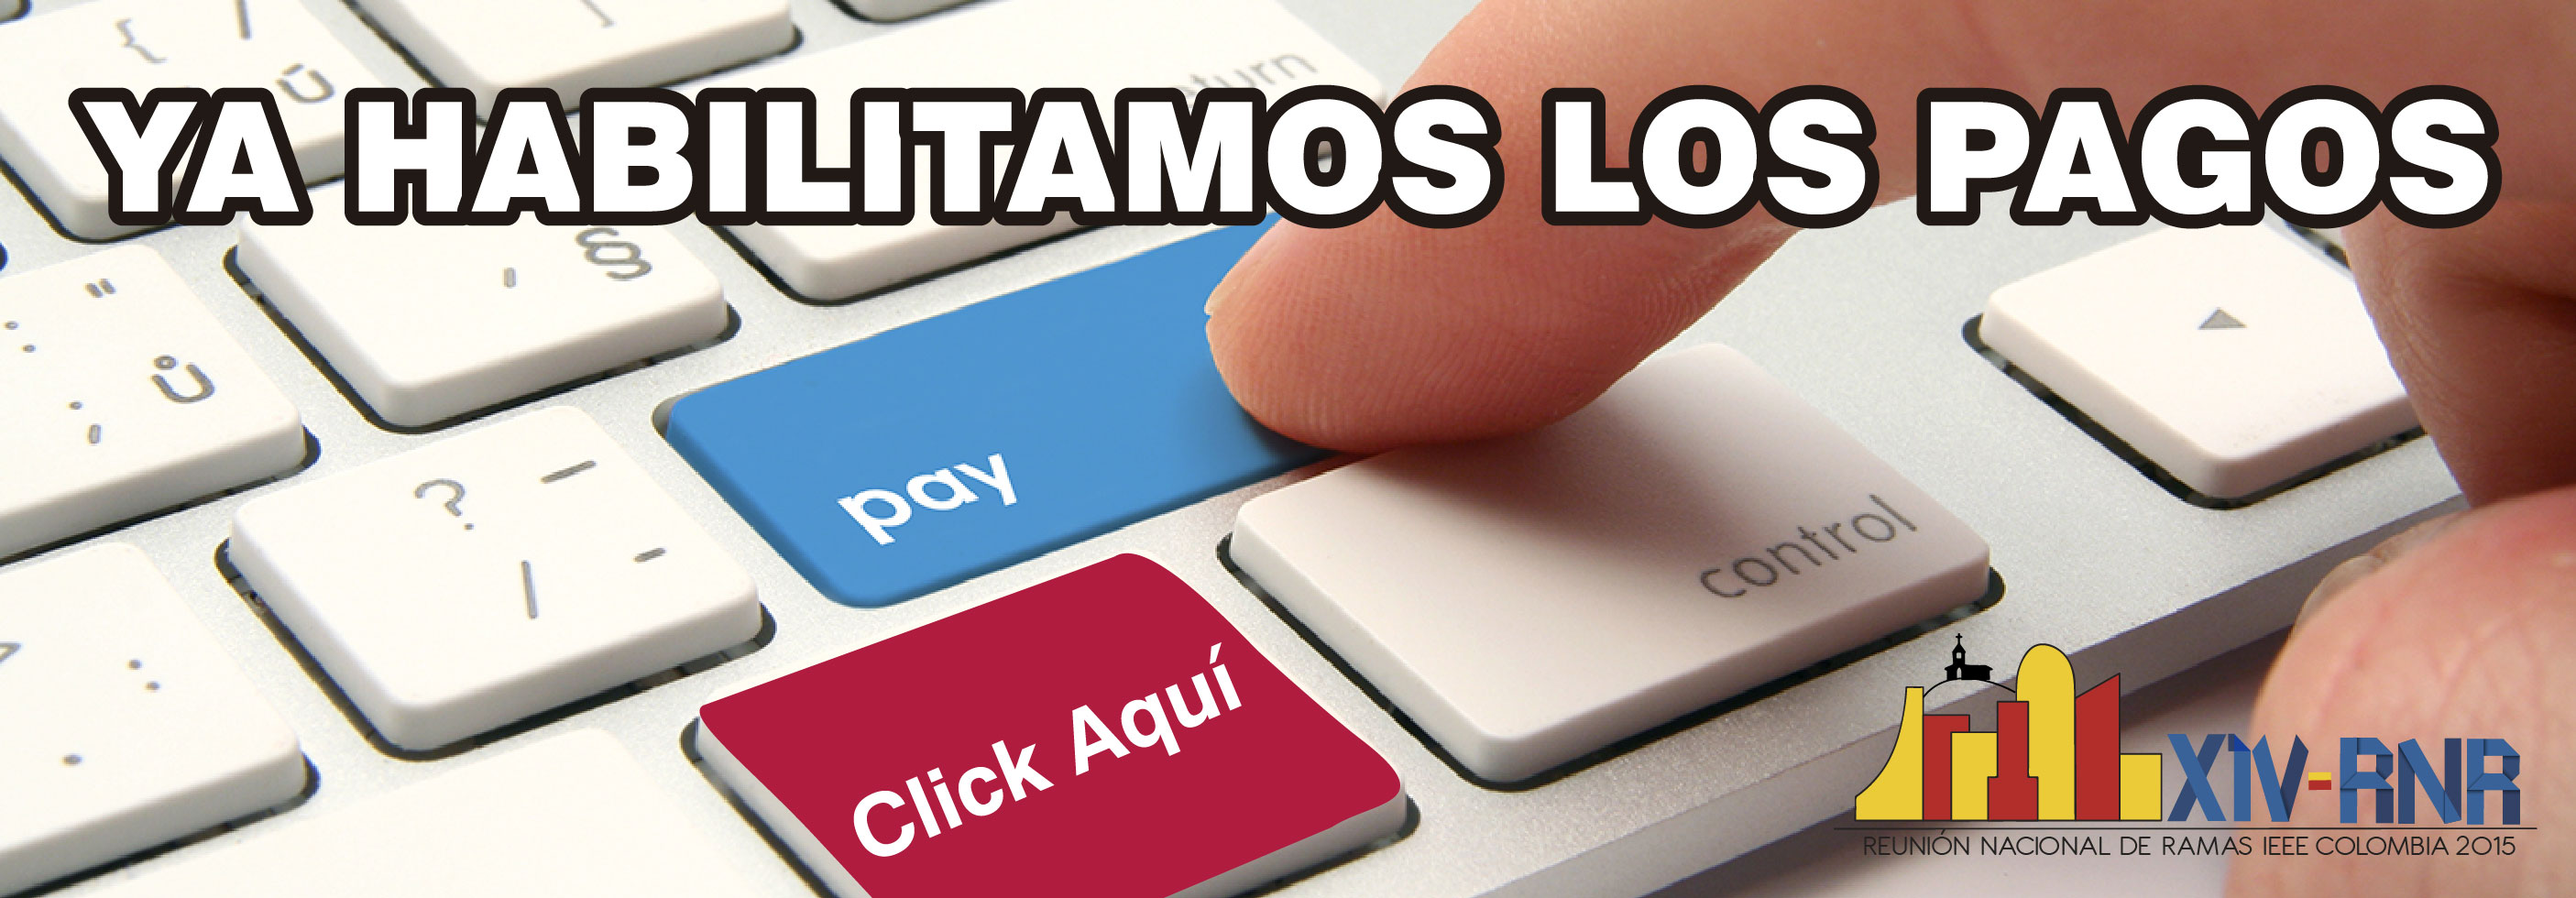
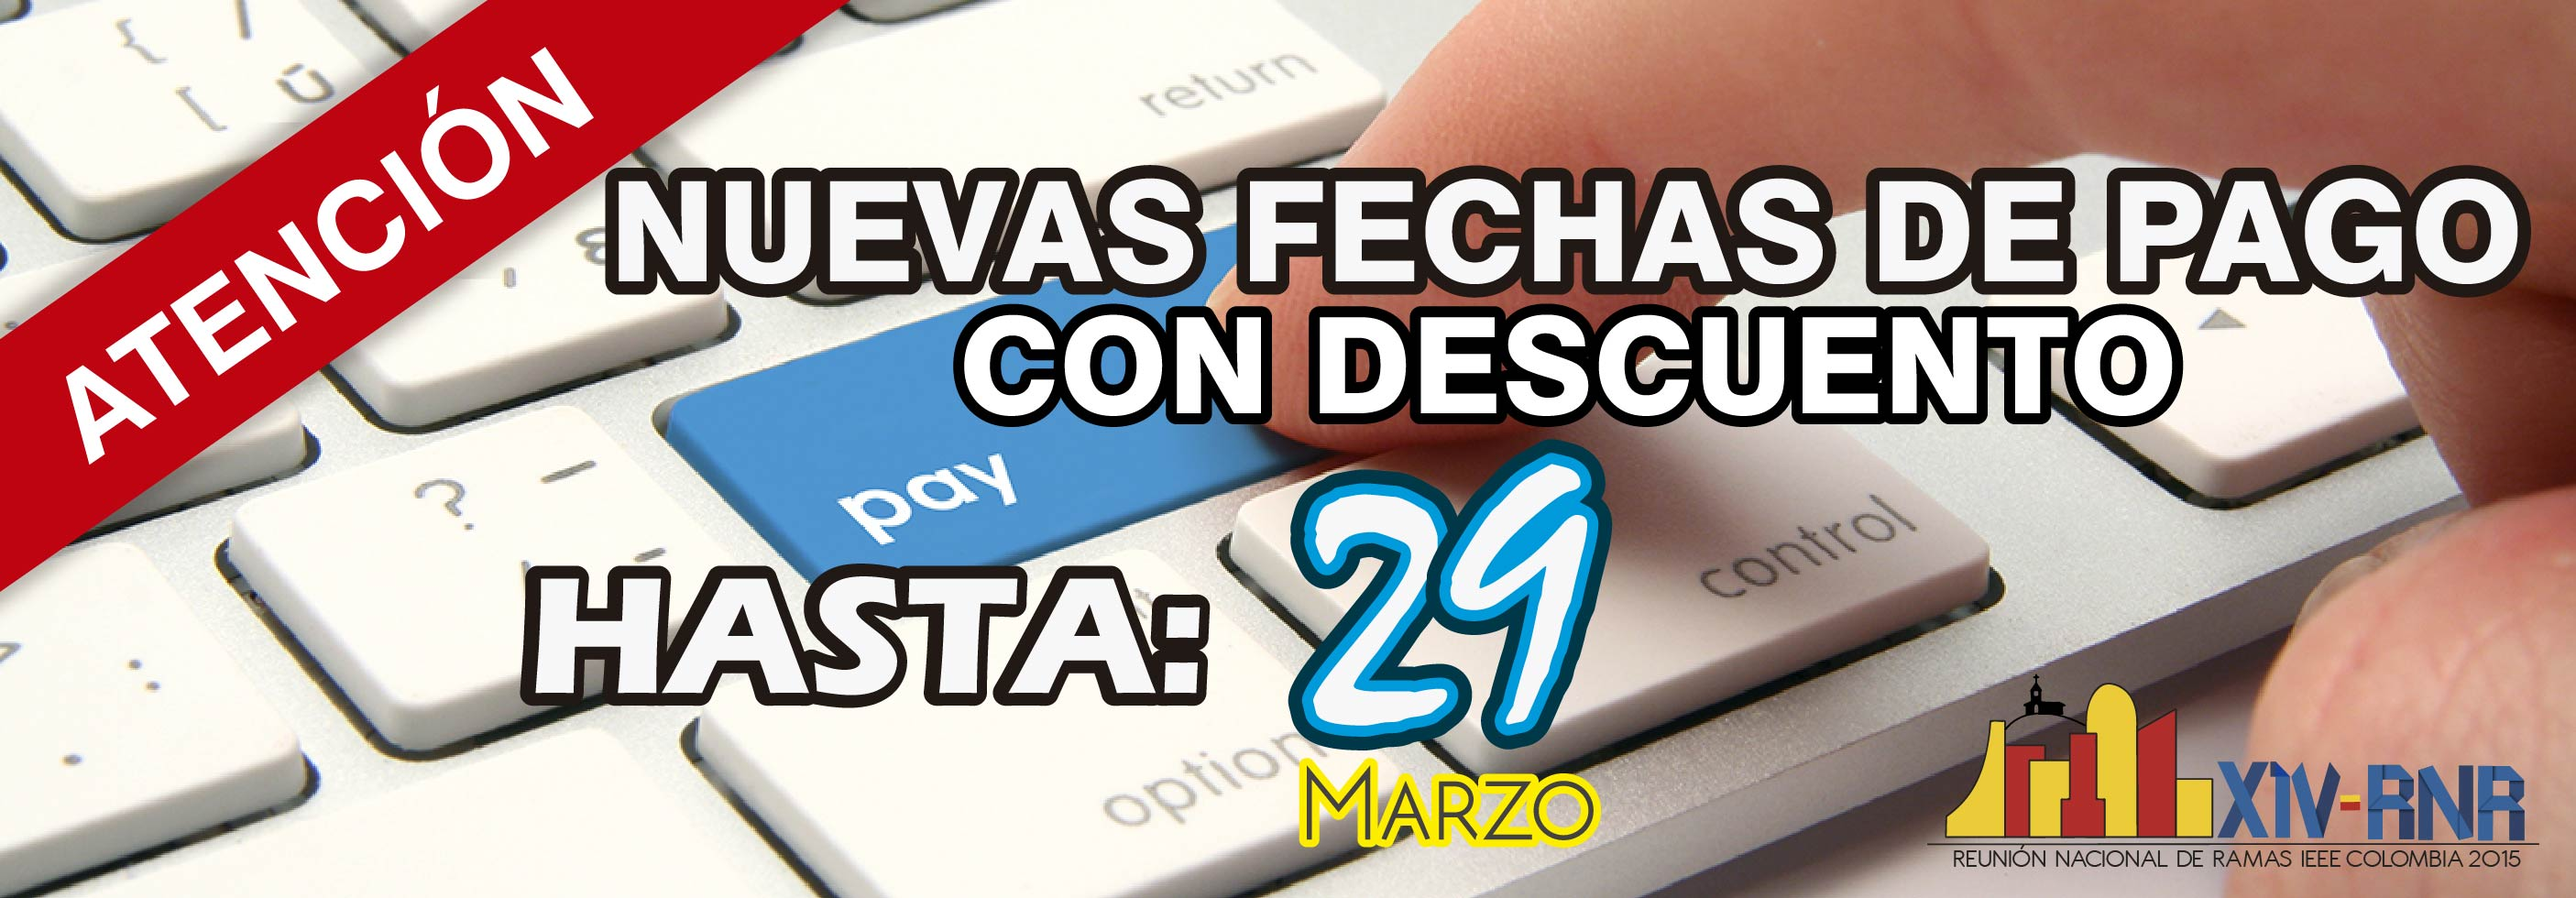
Fabian - Add Concurso Etica - caso Exito
Add images
Apliada Fecha pago.

diff --git a/web/agenda.html b/web/agenda.html
@@ -608,7 +608,17 @@
 
 					<P id="Agenda_p">candidato a Máster en Ciencias de Ingeniería, Mención Telecomunicaciones.</P><br>
 
+					<p id="Agenda_h4_Conferencia"><strong>Augusto compartirá con todos nosotros su amplio conocimiento y experiencia en el Instituto, y nos enseñara como lograr que una Rama Estudiantil sea un ejemplo para toda la región.</strong></p><br>
+
 					<button id="biografia_1_btn">Conoce más sobre Augusto</button>
+
+					<!-- <a href="" id="biografia_1_btn" >Conoce más sobre Augusto</a> -->
+
+					  <!-- <p><button id="biografia_1_btn">
+					  <span>Conoce más sobre Augusto</span>					  	
+					  </button></p>
+ -->
+
 
 					<div id="bigrafia_1_div" style="display:none">				
 
@@ -618,8 +628,6 @@
 
 					Se unió como voluntario a IEEE desde el año 2005 y gracias a sus destacados aportes ha alcanzado notables posiciones tanto en IEEE Sección Argentina como en IEEE Región 9. En su Sección ha fungido como S-SAC, Coordinador GOLD, entre otros cargos. En Región 9 se ha desempeñado también como Coordinador GOLD y actualmente como R-SAC. En 2012 recibió el premio IEEE Theodore W. Hissey de la Región 9, por sus actividades como GOLD SAC. <br> <br>
 					</p>
-
-					<p id="Agenda_h4_Conferencia"><strong>Augusto compartirá con todos nosotros su amplio conocimiento y experiencia en el Instituto, y nos enseñara como lograr que una Rama Estudiantil sea un ejemplo para toda la región.</strong></p><br>
 
 					</div>
 
@@ -631,19 +639,19 @@
 
 					<P id="Agenda_p">Ingeniero Electrónico de la Universidad Javeriana <br> <br></P>
 
+					<p id="Agenda_h4_Conferencia"><strong>
+					Antonio compartirá con nosotros las experiencias que ha tenido con el Instituto en cada una de sus facetas y nos comunicará cómo las ramas estudiantiles deben trabajar y formar alianzas con sus universidades para ser organizaciones exitosas.
+					</strong></p><br>	
+
 					<button id="biografia_2_btn">Conoce más sobre Antonio</button>
 
 					<div id="bigrafia_2_div" style="display:none">				
 					
 					<p id="Agenda_p_Descrpicion">
 
-					Ingeniero Electrónico de la Universidad Javeriana. Ha sido Decano y Vicedecano de la Facultad de Ingeniería (1982-1989) de la Universidad de Los Andes, Jefe del Departamento de Ingeniería Eléctrica (1979-1982) y Director del CMUA (1990-2014), de la misma universidad. Ha sido Presidente de ACIEM Cundinamarca y Vice-presidente nacional de ACIEM. <br> <br> Se ha despeñado como representante del Presidente de la República en la Junta Directiva del ICEL y como  representante de las universidades privadas ante el Consejo Profesional de Ingeniería. <br> <br> Es Miembro Distinguido de la Asociación Colombiana de Ingeniería, ACIEM y Miembro Correspondiente de la Academia Colombiana de Historia de la Ingeniería y las Obras Publica. <br> <br> Inició en IEEE como miembro profesional desde el año 1981 y ha sido presidente de la Sección Colombia (1990) y fundador del capítulo profesional de Circuits and Systems Colombia, fue nombrado Senior Member de IEEE (1997) e Ingeniero Emérito de IEEE Región 9 (2013).
+					Ingeniero Electrónico de la Universidad Javeriana. Ha sido Decano y Vicedecano de la Facultad de Ingeniería (1982-1989) de la Universidad de Los Andes, Jefe del Departamento de Ingeniería Eléctrica (1979-1982) y Director del CMUA (1990-2014), de la misma universidad. Ha sido Presidente de ACIEM Cundinamarca y Vice-presidente nacional de ACIEM. <br> <br> Se ha desempeñado como representante del Presidente de la República en la Junta Directiva del ICEL y como representante de las universidades privadas ante el Consejo Profesional de Ingeniería. <br> <br> Es Miembro Distinguido de la Asociación Colombiana de Ingeniería, ACIEM y Miembro Correspondiente de la Academia Colombiana de Historia de la Ingeniería y las Obras Publicas. <br> <br> Inició en IEEE como miembro profesional desde el año 1981 y ha sido presidente de la Sección Colombia (1990) y fundador del capítulo profesional de Circuits and Systems Colombia, fue nombrado Senior Member de IEEE (1997) e Ingeniero Emérito de IEEE Región 9 (2013).
 
 					</p>
-
-					<p id="Agenda_h4_Conferencia"><strong>
-					Antonio compartirá con nosotros las experiencias que ha tenido con el Instituto en cada una de sus facetas y nos comunicará cómo las ramas estudiantiles deben trabajar y formar alianzas con sus universidades para ser organizaciones exitosas.
-					</strong></p><br>	
 
 					</div>							
 			</div>

diff --git a/web/registro.html b/web/registro.html
@@ -73,7 +73,7 @@
 
 <!-- REGISTRO MAIN 	   ###############################################  -->
 	<div id="Container_Registro">
-		<h4 id="Registro_h4_Titulo"> Ya tenemos Precios</h4>
+		<h4 id="Registro_h4_Titulo"> ¡Hemos ampliado la fecha de pago con descuento!</h4>
 
 		<p id="Registro_p_1">Para el comité organizador de a XVI Reunión Nacional de Ramas es un placer anunciar los precios de inscripción oficiales a nuestra reunión. 
 		Expresamos nuestros agradecimientos a IEEE Sección Colombia por subsidiar el costo de la participación de los futuros voluntarios líderes de nuestra Sección.</p>
@@ -93,7 +93,7 @@
 		<tbody>
 
 		<tr id="Registro_body">
-		<td id="Registro_body_dia1">1ra Fecha Pago con Descuento. (22 Febrero - 22 Marzo)</td>
+		<td id="Registro_body_dia1">1ra Fecha Pago con Descuento. (22 Febrero - 29 Marzo)</td>
 		<td id="Registro_body_precio1"><strong>$ 250.000</strong></td>
 		<td id="Registro_body_precio2"><strong>$ 350.000</strong> </td>
 		<td id="Registro_body_precio3"><strong>$ 370.000</strong></td>
@@ -101,7 +101,7 @@
 		</tr>
 
 		<tr>
-		<td id="Registro_body_dia2">2da Fecha Pago. (23 Marzo - 10 Abril)</td>
+		<td id="Registro_body_dia2">2da Fecha Pago. (30 Marzo - 10 Abril)</td>
 		<td id="Registro2_body_precio1"><strong>$ 290.000</strong></td>
 		<td id="Registro2_body_precio2"><strong>$ 390.000</strong></td>	
 		<td id="Registro2_body_precio3"><strong>$ 410.000</strong></td>	
@@ -111,7 +111,7 @@
 		</table>
 
 		<p id="Registro_p_terminos_y_condiciones">*Precios con subsidio IEEE Sección Colombia</p>
-		<p id="Registro_p_terminos_y_condiciones">** El descuento aplica únicamente para presidentes de Rama Estudianti; si eres presidente debes escribirnos a <a href="mailto:rnr@ieee.org.co">rnr@ieee.org.co</a> para saber cómo aplicar a este descuento. Solo en caso que el(la) presidente(a) no pueda asistir deberá comunicar mediante correo electrónico a <a href="mailto:rnr@ieee.org.co">rnr@ieee.org.co</a> quien será la persona que tomará el descuento. </p>
+		<p id="Registro_p_terminos_y_condiciones">** El descuento aplica únicamente para presidentes de Rama Estudianti; si eres presidente debes escribirnos a <a id="Registro_p_a" href="mailto:rnr@ieee.org.co">rnr@ieee.org.co</a> para saber cómo aplicar a este descuento. Solo en caso que el(la) presidente(a) no pueda asistir deberá comunicar mediante correo electrónico a <a id="Registro_p_a" href="mailto:rnr@ieee.org.co">rnr@ieee.org.co</a> quien será la persona que tomará el descuento. </p>
 
 			  <div id="Registro_Btn_Pago">
 			  <a id="color_link_btn" href="https://www.asistiendo.com/prod/0020101/0092E0J8J0/reg/intro.asp?id=000001A0E0K6I3W3G7X4G7Y9U8N9M0E0J8J0">Inscríbete</a>
@@ -174,7 +174,7 @@
 		<div id="Registro_Carta_Invitacion">
 			<h4 id="Registro_h4_Titulo_3">¿Cartas de Invitación?</h4>
 				<P id="Registro_p_2">
-				¿Deseas una carta de invitación especialmente para tu rama? No esperes más escríbenos a <a href="mailto:rnr@ieee.org.co">rnr@ieee.org.co</a>  y nos pondremos en contacto contigo para ajustarla y enviartela.</P>		
+				¿Deseas una carta de invitación especialmente para tu rama? No esperes más escríbenos a <a id="Registro_p_a" href="mailto:rnr@ieee.org.co">rnr@ieee.org.co</a>  y nos pondremos en contacto contigo para ajustarla y enviartela.</P>		
 		</div>
 
 		<div id="Registro_Formas_De_Pago">

diff --git a/web/concursos.html b/web/concursos.html
@@ -77,6 +77,45 @@
 
 	<div id="Concursos_Container_Info">
 
+		 <div id="Registro_Carta_Invitacion">
+			<h4 id="Concursos_h4_Titulo_2">Concurso de Ética</h4>
+			<figure id="Concursos_img1">
+				<img src="img/Concurso_Etica_RNR.png" alt="">
+			</figure>
+
+			<P id="Concursos_p">
+				La ética no consiste en formular preceptos caídos o dictados desde el cielo, sino que es consecuencia de tomar consciencia de lo que somos”. <br><br>
+
+				Participa junto a tu rama en el concurso de ética y demuestra que en IEEE trabajamos en el avance de la tecnología para beneficio de la humanidad. <br>
+
+				En los siguiente enlaces podrás conocer más sobre el concurso:</P>
+
+				<p id="Concursos_subTitulo"> <a id="Concursos_Color_Link" href="http://goo.gl/aT6OWZ" target="_blank">Términos Condiciones y Restricciones</a></p>
+
+				<p id="Concursos_subTitulo"> <a id="Concursos_Color_Link" href="http://goo.gl/XJptRc" target="_blank">Formulario de Inscripción</a></p>	
+
+				<p id="Concursos_subTitulo"> <a id="Concursos_Color_Link" href="http://goo.gl/B1ImYK" target="_blank">Código de Ética IEEE en español</a></p>					
+			</div> 
+
+		<div id="Registro_Formas_De_Pago">
+			<h4 id="Concursos_h4_Titulo_2">Concurso de Casos de Éxito</h4>
+			<figure id="Concursos_img1">
+				<img src="img/Concurso_casos_de_exito.jpg" alt="">
+			</figure>
+
+			<P id="Concursos_p">
+				El trabajo voluntario de los miembros IEEE responde siempre al principio fundamental del Instituto —Advancing technology for humanity— y una evidencia irrefutable de esta misión es precisamente los Casos de Éxito cuya esencia no es más que el impacto positivo de la filosofía  IEEE a través de sus voluntarios, programas y herramientas en problemáticas de diversas  naturalezas. <br><br>
+
+				Muéstrale a toda la Sección que el trabajo de tu rama merece ser conocido por todos e inspira a otros a seguir mejorando ¡participa en el concurso de casos de éxito! <br>
+
+				En el siguiente enlace podrás conocer las instrucciones del concurso:</P>
+
+				<p id="Concursos_subTitulo"> <a id="Concursos_Color_Link" href="http://goo.gl/KoqGQX" target="_blank">Términos y Condiciones</a></p>
+				<p id="Concursos_subTitulo"> <a id="Concursos_Color_Link" href="http://goo.gl/BLYqHX" target="_blank">Plantilla para el Paper</a></p>	
+
+				
+			</div>
+
 		<div id="Registro_Carta_Invitacion">
 			<h4 id="Concursos_h4_Titulo_2">Concurso de Video RNR IEEE - Colombia</h4>
 			<figure id="Concursos_img1">
@@ -91,10 +130,8 @@
 				<p id="Concursos_subTitulo"> <a id="Concursos_Color_Link" href="http://goo.gl/forms/KKHPBga0T5" target="_blank">Formulario de Inscripción</a></p>	
 		</div>
 
-		<div id="Registro_Formas_De_Pago">
-			<h4 id="Concursos_h4_Titulo_2">Próximamente Espera mas concursos en esta RNR</h4>
-				
-			</div>
+		
+
 		</div>	
 	</div>
 <!-- END Contenedor Concurso ############################################### -->

diff --git a/web/css/style.css b/web/css/style.css
@@ -469,7 +469,11 @@ a#color_link_btn{color: white !important;}
 
 p#Concursos_subTitulo {
 text-align: center;
+font-size: 20px;
 }
+
+#Concursos_Color_Link{color: #006699;}
+
 
 #Concursos_p_subTitulo
 {
@@ -548,12 +552,7 @@ text-align: center;
 	{
 		margin: 0;
 	}
-
-
 }
-
-#Concursos_Color_Link{color: black !important;}
-
 
 /* 05. INFO WHAT'S RNR OWN PAGE ... ================================================== */
 
@@ -861,7 +860,7 @@ section article p
 	text-align: justify;
 	color: #524D4D;	
 	font-family: 'latoregular';
-	padding: 1% 0 2% 6%;
+	padding: 1% 0 2% 5%;
 }
 
 #Agenda_h5
@@ -1571,7 +1570,7 @@ ul.rig.columns-4 li
 
 #Lugar_Que_Pasara_Despues, #Contenedor_Concursos
 {
-	min-height: 1025px;	
+	min-height: 2000px;	
 	box-shadow: rgba(37, 161, 119, 0.5) 0 10px 19px 0px;
 }
 
@@ -1877,6 +1876,8 @@ ul#Comite_Organizador_Lista
 	line-height: 2.2em;
 	text-align: center;
 }
+
+#Registro_p_a{color: #006699 !important;}
 
 #Registro_p_3
 {

diff --git a/web/index.html b/web/index.html
@@ -67,7 +67,7 @@
 	                  <li><a href="concursos.html">Concursos</a></li>
 	                  <li><a href="lugar.html">Lugar</a></li>
 	                  <!-- <li><a href="organizadores.html">Organizadores</a></li> -->
-	                  <li><a href="#">Patrocinadores</a></li>
+	                  <li><a href="#patrocinadores">Patrocinadores</a></li>
 	                  <li><a href="registro.html">Registro</a></li>
 					  <li><a href="#footer_2">Contacto</a></li>
 					</ul>
@@ -85,6 +85,10 @@
 	
 	<a href="registro.html">	
 	<li><img src="img/pagos.jpg" alt=""></li>
+	</a>
+
+	<a href="concursos.html">	
+	<li><img src="img/casos_de_exito_slide.jpg" alt=""></li>
 	</a>
 
 	<a href="concursos.html">	

diff --git a/web/organizadores.html b/web/organizadores.html
@@ -60,8 +60,8 @@
 	                  <li><a href="agenda.html">Agenda</a></li>
 	                  <li><a href="concursos.html">Concursos</a></li>
 	                  <li><a href="lugar.html">Lugar</a></li>
-	                  <li><a href="organizadores.html">Organizadores</a></li>
-	                  <!-- <li><a href="#patrocinadores">Patrocinadores</a></li> -->
+	                  <!-- <li><a href="organizadores.html">Organizadores</a></li> -->
+	                  <li><a href="#patrocinadores">Patrocinadores</a></li>
 	                  <li><a href="registro.html">Registro</a></li>
 					  <li><a href="#footer_2">Contacto</a></li>
 					</ul>

diff --git a/web/js/main.js b/web/js/main.js
@@ -275,8 +275,10 @@ function mostrar3() {
  		$(document).ready(function(){ 
    $('#biografia_1_btn').on('click',function(){
       $('#bigrafia_1_div').toggle('slow');
+      $(this).html($(this).html() == 'Ocultar información' ? 'Conoce más sobre Augusto' : 'Ocultar información');
    });
    $('#biografia_2_btn').on('click',function(){
       $('#bigrafia_2_div').toggle('slow');
+      $(this).html($(this).html() == 'Ocultar información' ? 'Conoce más sobre Antonio' : 'Ocultar información');
    });
-});
+ });
